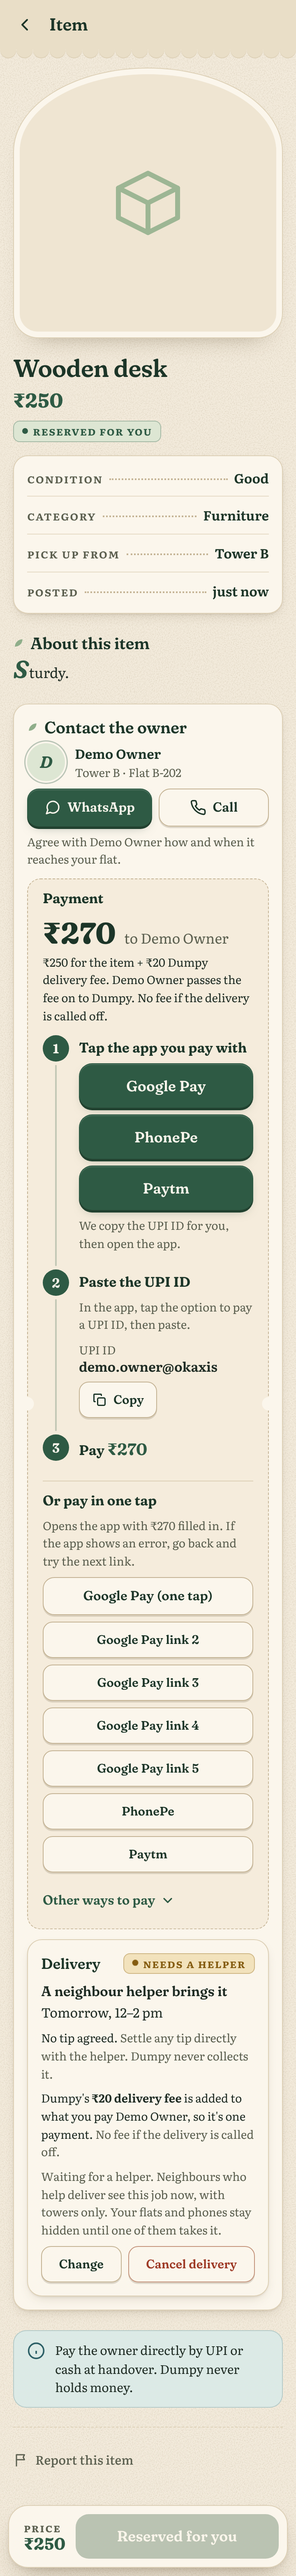
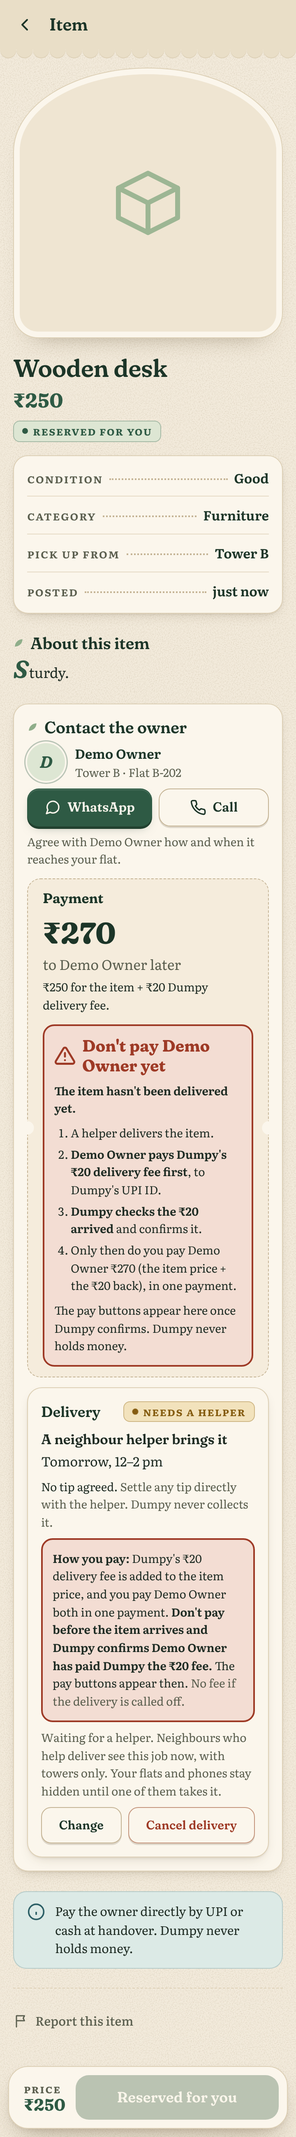
Seller pays Dumpy's delivery fee first, with red warnings for buyer and seller
For a helper delivery of a paid item, the seller must pay Dumpy's fee and a
platform admin must confirm it before the buyer can pay the seller (price +
fee, one payment). Until then get_contact hides the seller's UPI ID and
set_paid refuses to mark the item paid (seller_fee_pending). Big red
warnings explain the order at booking, before and after delivery.

Claude-Session: https://claude.ai/code/session_01RPdTXMb1PRF175KPwEZfhq

diff --git a/tests/browser/fees.js b/tests/browser/fees.js
@@ -224,39 +224,54 @@ const q1 = (query) => sql(query).split('\n').filter(Boolean).pop() || '';
   await tp.waitForSelector(`${box} form`);
   await tp.click(`${box} label:has-text("A neighbour helper brings it")`);
   await tp.waitForSelector(`${box} [data-fee-note]:not([hidden])`);
-  check((await tp.textContent(`${box} [data-fee-note]`)).includes("₹20 delivery fee is added to what you pay Demo Owner, so it's one payment"),
-    'Booking a helper for a paid item says the fee is added to the payment to the seller');
+  const note = await tp.textContent(`${box} [data-fee-note]`);
+  check(note.includes("added to the item price, and you pay Demo Owner both in one payment") && note.includes("Don't pay before the item arrives and Dumpy confirms Demo Owner has paid Dumpy the ₹20 fee")
+    && await tp.evaluate(() => document.querySelector('.delivery [data-fee-note]').classList.contains('pay-warn')),
+    'Booking a helper for a paid item warns in red: one payment, only after Dumpy confirms the seller paid the fee');
   sql(`select public.arrange_delivery('${DESK}', 'helper', (((now() at time zone 'Asia/Kolkata')::date + 1) + time '12:00') at time zone 'Asia/Kolkata', '')`, TAKER.id);
   await tp.reload(); await settle(tp);
-  await tp.waitForFunction(() => /₹270/.test((document.querySelector('.pay[data-pay] .pay__sum') || {}).textContent || ''));
-  check((await tp.textContent('.pay[data-pay] [data-pay-breakdown]')).includes('₹250 for the item + ₹20 Dumpy delivery fee. Demo Owner passes the fee on to Dumpy'),
-    'The taker\'s pay box shows one payment: ₹270 to Demo Owner, ₹250 item + ₹20 fee');
-  const deskLink = await tp.getAttribute('.pay[data-pay] [data-pay-link]', 'href');
-  check(deskLink.includes('am=270.00') && deskLink.startsWith('upi://pay?pa=') && !deskLink.includes('Q987654321'),
-    'The payment link pays the seller ₹270\n       ' + deskLink);
-  check((await tp.textContent(`${box} [data-fee-line]`)).includes("added to what you pay Demo Owner"), 'The delivery plan says the same');
-  await noSideScroll(tp, 'one payment'); await smallTargets(tp, 'one payment');
+  await tp.waitForSelector('.pay[data-pay] [data-pay-warn]');
+  const lockT = await tp.textContent('.pay[data-pay]');
+  check(lockT.includes("Don't pay Demo Owner yet") && lockT.includes('₹270') && lockT.includes('Demo Owner pays Dumpy\'s ₹20 delivery fee first')
+    && (await tp.locator('.pay[data-pay] [data-pay-link], .pay[data-pay] [data-pay-app]').count()) === 0 && !(await tp.content()).includes('demo.owner@okaxis'),
+    'Before delivery the buyer sees a red "Don\'t pay yet" with the order of payments, no pay buttons and no seller UPI ID');
+  check((await tp.textContent(`${box} [data-fee-line]`)).includes("Don't pay before the item arrives"), 'The delivery plan repeats the warning');
+  await noSideScroll(tp, 'one payment locked'); await smallTargets(tp, 'one payment locked');
   await shot(tp, 'item-one-payment-light');
   const op = await personPage(OWNER);
   await op.goto(SITE + '/pages/item.html?id=' + DESK); await settle(op);
-  await op.waitForFunction(() => /₹270/.test((document.querySelector('[data-pay-status]') || {}).textContent || ''));
-  check((await op.textContent('[data-pay-status]')).includes('pays you ₹270 by UPI or cash (₹250 for the item + ₹20 Dumpy delivery fee, which you pass on to Dumpy'),
-    'The seller is told they get ₹270 and pass ₹20 on');
+  await op.waitForSelector('.pay[data-pay] [data-pay-warn]');
+  check((await op.textContent('.pay[data-pay]')).includes("You can't be paid yet") && await op.isDisabled('[data-pay-toggle]'),
+    'The seller sees a red "You can\'t be paid yet", and Mark as paid is locked');
+  check((await op.textContent(`${box} [data-fee-line]`)).includes("You can't be paid until Dumpy confirms it"), 'The seller\'s delivery plan explains it too');
   const deskDid = q1(`select id from public.deliveries where listing_id = '${DESK}' and status = 'open'`);
   sql(`select public.claim_delivery('${deskDid}')`, HELPER.id);
   sql(`select public.mark_delivered('${deskDid}')`, HELPER.id);
   await op.reload(); await settle(op);
   await op.waitForSelector(`${box} [data-fee] [data-dact="feepaid"]`);
-  check((await op.textContent(`${box} [data-fee]`)).includes('Demo Taker pays you ₹20 for Dumpy\'s delivery fee with the item price. Please pass it on to Dumpy'),
-    'After delivery the seller is asked to pass the fee on, with I\'ve paid');
+  check((await op.textContent(`${box} [data-fee]`)).includes("Pay Dumpy first") && (await op.textContent(`${box} [data-fee]`)).includes("Demo Taker can't pay you until you pay Dumpy's ₹20 delivery fee and Dumpy confirms it"),
+    'After delivery the seller gets a red "Pay Dumpy first", with the pay steps and I\'ve paid');
   await shot(op, 'item-seller-passes-fee-light');
   await tp.reload(); await settle(tp);
-  await tp.waitForSelector(`${box} [data-fee]`);
-  check((await tp.textContent(`${box} [data-fee]`)).includes('Included in your payment to Demo Owner') && (await tp.locator(`${box} [data-fee] [data-dact="feepaid"]`).count()) === 0,
-    'The taker has nothing extra to pay Dumpy');
+  await tp.waitForSelector('.pay[data-pay] [data-pay-warn]');
+  check((await tp.textContent('.pay[data-pay]')).includes("Waiting for Demo Owner to pay Dumpy's ₹20 delivery fee") && (await tp.textContent(`${box} [data-fee]`)).includes('Included in your payment to Demo Owner'),
+    'After delivery the buyer still waits, and is told why');
   await op.click(`${box} [data-dact="feepaid"]`);
-  await op.waitForFunction(() => /You marked this as paid/.test(document.querySelector('.delivery').textContent));
-  check(q1(`select fee_marked_paid_at is not null from public.deliveries where id = '${deskDid}'`) === 't', 'The seller marks the fee passed on');
+  await op.waitForFunction(() => /Waiting for Dumpy to confirm your ₹20 fee/.test(document.querySelector('.delivery').textContent));
+  check(q1(`select fee_marked_paid_at is not null from public.deliveries where id = '${deskDid}'`) === 't', 'The seller marks the fee paid and waits for Dumpy');
+  await tp.reload(); await settle(tp);
+  await tp.waitForSelector('.pay[data-pay] [data-pay-warn]');
+  check((await tp.textContent('.pay[data-pay]')).includes("says they paid Dumpy's ₹20 fee. Waiting for Dumpy to confirm"), 'Until Dumpy confirms, the buyer still can\'t pay');
+  sql(`select public.platform_settle_delivery_fee('${deskDid}', 'confirm')`, BOSS.id);
+  await tp.reload(); await settle(tp);
+  await tp.waitForSelector('.pay[data-pay] [data-pay-ok]');
+  const deskLink = await tp.getAttribute('.pay[data-pay] [data-pay-link]', 'href');
+  check(deskLink.includes('pa=demo.owner@okaxis') && deskLink.includes('am=270.00') && (await tp.textContent('.pay[data-pay] [data-pay-ok]')).includes('Dumpy confirmed Demo Owner paid the ₹20 delivery fee'),
+    'Once Dumpy confirms, the buyer gets the pay buttons for ₹270 to Demo Owner\n       ' + deskLink);
+  await shot(tp, 'item-one-payment-confirmed-light');
+  await op.reload(); await settle(op);
+  await op.waitForSelector('[data-pay-toggle]:not([disabled])');
+  check(true, 'and the seller can mark the item paid');
   sql(`update public.profiles set upi_id = nullif('${ownerUpi}', '') where user_id = '${OWNER.id}'`);
 
   // Turn the fee back off so later test files start as before.

diff --git a/js/pay.js b/js/pay.js
@@ -237,6 +237,22 @@
   // The pay boxes on the page, so a helper delivery's fee can be added later.
   var CARDS = {};
 
+  var ICON_ALERT = '<svg viewBox="0 0 24 24" fill="none" stroke="currentColor" stroke-width="2.2" stroke-linecap="round" stroke-linejoin="round" aria-hidden="true"><path d="M10.3 3.9 1.8 18a2 2 0 0 0 1.7 3h17a2 2 0 0 0 1.7-3L13.7 3.9a2 2 0 0 0-3.4 0z"/><path d="M12 9v4M12 17h.01"/></svg>';
+  // A big red warning box. body is HTML.
+  function warn(title, body) {
+    return '<div class="pay-warn" role="alert" data-pay-warn><p class="pay-warn__t">' + ICON_ALERT + "<span>" + title + "</span></p>" + body + "</div>";
+  }
+  // The order of payments when the seller collects Dumpy's delivery fee.
+  //   seller  the seller's name, or "You" when the seller is reading
+  //   payer   who pays the seller at the end: "you" or the buyer's name
+  function order(seller, fee, total, payer) {
+    var you = seller === "You";
+    return "<ol class=\"small\"><li>A helper delivers the item.</li><li><strong>" + seller + (you ? " pay" : " pays") + " Dumpy's " + fee +
+      " delivery fee first</strong>, to Dumpy's UPI ID.</li><li><strong>Dumpy checks the " + fee + " arrived</strong> and confirms it.</li>" +
+      "<li>Only then " + (payer === "you" ? "do you pay " + seller : "does " + payer + " pay you") + " " + total +
+      " (the item price + the " + fee + " back), in one payment.</li></ol>";
+  }
+
   function card(l, c, ownerView) {
     if (!isPaid(l) || !matched(l)) return "";
     CARDS[l.id] = { l: l, c: c, ownerView: ownerView };
@@ -247,11 +263,39 @@
     var total = l.price_inr + fee;
     var price = rupees(total);
     var split = fee ? rupees(l.price_inr) + " for the item + " + rupees(fee) + " Dumpy delivery fee" : "";
+    // The seller pays Dumpy's fee first; until Dumpy confirms it, nobody pays
+    // the seller (the database also hides their UPI ID and refuses Mark as paid).
+    var locked = fee > 0 && l.delivery_fee_state !== "confirmed";
+    // Until the delivery box has said whether there is a fee, don't show a
+    // missing UPI ID as "pay in cash": it may be hidden for that reason.
+    var waiting = !ownerView && !l.delivery_fee_known && !(c && c.upi_id) && !!Dumpy.delivery && !l.paid_at;
     var paid = !!l.paid_at;
     var other = c ? c.display_name : (ownerView ? "the taker" : "the owner");
     var hid = "pay-h-" + esc(l.id);
     var head = '<div class="pay" data-pay="' + esc(l.id) + '" role="group" aria-labelledby="' + hid + '">' +
       '<p class="pay__title" id="' + hid + '">Payment · ' + price + "</p>";
+
+    var otherName = esc(other);
+    if (locked && !paid) {
+      var fr = rupees(fee);
+      if (ownerView) {
+        var now = { upcoming: "After the helper delivers, pay Dumpy's " + fr + " delivery fee in the Delivery box below.",
+                    due: "Pay Dumpy's " + fr + " delivery fee now, in the Delivery box below.",
+                    marked: "You said you paid Dumpy's " + fr + " fee. Waiting for Dumpy to confirm it." }[l.delivery_fee_state] || "";
+        return head + warn("You can't be paid yet", '<p class="small"><strong>' + now + "</strong></p>" + order("You", fr, price, otherName) +
+            '<p class="small">Until then ' + otherName + " can't see your UPI ID, and you can't mark this paid.</p>") +
+          '<label class="switch pay__switch"><span class="switch__text"><strong>Mark as paid</strong><br><span class="small muted" data-pay-status>Locked until Dumpy confirms your fee.</span></span>' +
+          '<input type="checkbox" data-pay-toggle disabled aria-describedby="' + hid + '"></label></div>';
+      }
+      var why = { upcoming: "The item hasn't been delivered yet.",
+                  due: "The item has arrived. Waiting for " + otherName + " to pay Dumpy's " + fr + " delivery fee.",
+                  marked: otherName + " says they paid Dumpy's " + fr + " fee. Waiting for Dumpy to confirm it." }[l.delivery_fee_state] || "";
+      return head.replace(">Payment · " + price + "<", ">Payment<") +
+        '<p class="pay__sum"><span class="pay__sum-amount">' + price + '</span><span class="pay__sum-to">to ' + otherName + " later</span></p>" +
+        '<p class="small pay__breakdown">' + esc(split) + ".</p>" +
+        warn("Don't pay " + otherName + " yet", '<p class="small"><strong>' + why + "</strong></p>" + order(otherName, fr, price, "you") +
+          '<p class="small">The pay buttons appear here once Dumpy confirms. Dumpy never holds money.</p>') + "</div>";
+    }
 
     if (ownerView) {
       var myUpi = Dumpy.state && Dumpy.state.profile && Dumpy.state.profile.upi_id;
@@ -269,6 +313,9 @@
     }
 
     var upi = c && c.upi_id && UPI_RE.test(c.upi_id) ? c.upi_id : null;
+    if (!upi && waiting) {
+      return head + '<p class="small muted">Checking how to pay…</p></div>';
+    }
     if (!upi) {
       return head + '<p class="small">' + esc(other) + " has not added a UPI ID. Pay " + price + " in cash when you collect it." +
         (fee ? " That's " + split + "." : "") + "</p></div>";
@@ -277,7 +324,8 @@
     var href = link(upi, c.display_name, total, l.title + (fee ? " + delivery" : ""));
     head = head.replace(">Payment · " + price + "<", ">Payment<");
     return head + steps({ href: href, price: price, payee: c.display_name,
-      breakdown: fee ? esc(split) + ". " + esc(c.display_name) + " passes the fee on to Dumpy. No fee if the delivery is called off." : "" }) + "</div>";
+      breakdown: fee ? esc(split) + '.</p><p class="small pay-ok" data-pay-ok><strong>Dumpy confirmed ' + esc(c.display_name) +
+        " paid the " + rupees(fee) + " delivery fee.</strong> You can pay now: the " + rupees(fee) + " goes back to " + esc(c.display_name) + "." : "" }) + "</div>";
   }
 
   async function copy(text) {
@@ -349,12 +397,18 @@
 
   // Add (or remove, with 0) Dumpy's delivery fee to an item's pay box: the
   // taker then pays the seller both in one payment.
-  function withFee(listingId, fee) {
+  //   fee    the fee the seller collects (0 if none)
+  //   state  the fee's status: upcoming, due, marked, confirmed or waived
+  function withFee(listingId, fee, state) {
     var k = CARDS[listingId];
     var box = document.querySelector('.pay[data-pay="' + listingId + '"]');
     fee = fee > 0 ? fee : 0;
-    if (!k || !box || (k.l.delivery_fee_extra || 0) === fee) return;
+    state = fee ? state || "" : "";
+    if (!k || !box) return;
+    if (k.l.delivery_fee_known && (k.l.delivery_fee_extra || 0) === fee && (k.l.delivery_fee_state || "") === state) return;
+    k.l.delivery_fee_known = true;
     k.l.delivery_fee_extra = fee;
+    k.l.delivery_fee_state = state;
     var open = box.querySelector("[data-pay-qr]");
     box.outerHTML = card(k.l, k.c, k.ownerView);
     if (open && open.open) document.querySelector('.pay[data-pay="' + listingId + '"] [data-pay-qr]').open = true;

diff --git a/js/delivery.js b/js/delivery.js
@@ -166,7 +166,8 @@
     // A paid item delivered by a helper: the fee is added to what the taker
     // pays the seller, in one payment (js/pay.js).
     if (Dumpy.pay && Dumpy.pay.withFee) {
-      Dumpy.pay.withFee(box.dataset.deliveryFor, d && d.fee_via_seller && hasFee(d) && d.fee_status !== "waived" ? d.fee_inr : 0);
+      var viaFee = d && d.fee_via_seller && hasFee(d) && d.fee_status !== "waived" ? d.fee_inr : 0;
+      Dumpy.pay.withFee(box.dataset.deliveryFor, viaFee, viaFee ? d.fee_status : "");
     }
     if (d && (d.status === "open" || d.status === "claimed")) showPlan(box, d);
     else if (d && d.status === "delivered") showDelivered(box, d);
@@ -198,9 +199,13 @@
   function feeLine(fee, role, other, viaSeller) {
     var off = '<span class="muted">No fee if the delivery is called off.</span>';
     if (viaSeller) {
+      var f = rupees(fee);
       return role === "taker"
-        ? "Dumpy's <strong>" + rupees(fee) + " delivery fee</strong> is added to what you pay " + esc(other || "the owner") + ", so it's one payment. " + off
-        : esc(other || "The taker") + " pays you Dumpy's <strong>" + rupees(fee) + " delivery fee</strong> with the item price. Pass it on to Dumpy once the item arrives. " + off;
+        ? "<strong>How you pay:</strong> Dumpy's " + f + " delivery fee is added to the item price, and you pay " + esc(other || "the owner") +
+          " both in one payment. <strong>Don't pay before the item arrives and Dumpy confirms " + esc(other || "the owner") + " has paid Dumpy the " + f +
+          " fee.</strong> The pay buttons appear then. " + off
+        : "<strong>You pay Dumpy first:</strong> right after the helper delivers, you pay Dumpy's " + f + " delivery fee. " +
+          "<strong>You can't be paid until Dumpy confirms it.</strong> Then " + esc(other || "the taker") + " pays you the price + " + f + " in one payment. " + off;
     }
     var who = role === "taker" ? "You pay" : esc(other || "The taker") + " pays";
     return who + " Dumpy a <strong>" + rupees(fee) + " delivery fee</strong> by UPI, once the item arrives. " + off;
@@ -221,9 +226,15 @@
       var said = { due: "not paid yet", marked: "marked as paid", confirmed: "paid", waived: "waived" }[d.fee_status] || "";
       return head + '<p class="small muted">' + esc(other || "The taker") + " pays this to Dumpy" + (said ? " (" + said + ")" : "") + ".</p></div>";
     }
-    if (d.fee_status === "confirmed") return head + '<p class="pay__done">' + ICON_CHECK + "<span>Dumpy got your fee. Thank you!</span></p></div>";
+    if (d.fee_status === "confirmed") return head + '<p class="pay__done">' + ICON_CHECK + "<span>Dumpy got your fee. Thank you!" +
+      (d.fee_via_seller ? " " + esc(other || "The taker") + " can now pay you, including the " + price + " back." : "") + "</span></p></div>";
     if (d.fee_status === "waived") return head + '<p class="pay__done">' + ICON_CHECK + "<span>Nothing to pay: this fee was waived.</span></p></div>";
     if (d.fee_status === "marked") {
+      if (d.fee_via_seller) {
+        return head + '<div class="pay-warn" role="alert"><p class="small"><strong>Waiting for Dumpy to confirm your ' + price + " fee.</strong> " +
+          esc(other || "The taker") + " can pay you once it does.</p></div>" +
+          '<p class="small muted">Reference ' + esc(d.fee_ref) + ".</p></div>";
+      }
       return head + '<p class="pay__done">' + ICON_CHECK + "<span>You marked this as paid. Thanks for keeping Dumpy going!</span></p>" +
         '<p class="small muted">Reference ' + esc(d.fee_ref) + ". Dumpy checks it arrived.</p></div>";
     }
@@ -239,8 +250,10 @@
     var paidBtn = '<button type="button" class="btn btn--outline btn--block" data-dact="feepaid">I\'ve paid</button>';
     return head.replace(">Dumpy delivery fee · " + price + "<", ">Dumpy delivery fee<") +
       (d.fee_via_seller
-        ? '<p class="small">' + esc(d.helper_name || "The helper") + " brought it over. " + esc(other || "The taker") +
-            " pays you " + price + " for Dumpy's delivery fee with the item price. Please pass it on to Dumpy.</p>"
+        ? '<div class="pay-warn" role="alert" data-pay-warn><p class="pay-warn__t">' + ICON_ALERT + "<span>Pay Dumpy first</span></p>" +
+            '<p class="small">' + esc(d.helper_name || "The helper") + " brought it over. <strong>" + esc(other || "The taker") +
+            " can't pay you until you pay Dumpy's " + price + " delivery fee and Dumpy confirms it.</strong> You get the " + price +
+            " back in " + esc(other || "the taker") + "'s payment.</p></div>"
         : '<p class="small">' + esc(d.helper_name || "The helper") + " brought it over. Please pay Dumpy's delivery fee. Any tip goes straight to " +
             esc(d.helper_name || "the helper") + ", as you agreed.</p>") +
       (href ? P.steps({ href: href, price: price, payee: d.fee_payee_name || "Dumpy", note: d.fee_upi_business ? "" : d.fee_ref,
@@ -260,7 +273,8 @@
     if (d.mode === "helper") {
       html += '<p class="small">' + (d.tip_note ? "Tip for the helper: <strong>" + esc(d.tip_note) + "</strong>. " : "No tip agreed. ") +
         '<span class="muted">Settle any tip directly with the helper. Dumpy never collects it.</span></p>' +
-        (hasFee(d) ? '<p class="small" data-fee-line>' + feeLine(d.fee_inr, role, other, d.fee_via_seller) + "</p>" : "");
+        (hasFee(d) ? (d.fee_via_seller ? '<div class="pay-warn" data-fee-line><p class="small">' : '<p class="small" data-fee-line>') +
+          feeLine(d.fee_inr, role, other, d.fee_via_seller) + (d.fee_via_seller ? "</p></div>" : "</p>") : "");
       if (d.status === "claimed") {
         html += '<div class="person"><span class="avatar" aria-hidden="true">' + initial(d.helper_name) + "</span>" +
           '<div><p class="person__name">' + esc(d.helper_name || "A neighbour") + '</p><p class="person__meta">Helper' +
@@ -370,6 +384,7 @@
       // goes through the seller (the same rule as arrange_delivery).
       var viaSeller = keptFee !== null ? !!d.fee_via_seller : +box.dataset.price > 0 && !box.dataset.paid;
       note.innerHTML = "<span>" + feeLine(fee, role, other, viaSeller) + "</span>";
+      note.classList.toggle("pay-warn", viaSeller);
       note.hidden = false;
     });
 

diff --git a/css/style.css b/css/style.css
@@ -2023,3 +2023,18 @@ html:active-view-transition-type(back)::view-transition-old(root) { animation: v
 .pay__links-alt { display: flex; flex-wrap: wrap; gap: var(--space-2); }
 .pay__links-alt .btn { flex: 1 1 140px; }
 .pay__breakdown { margin-top: calc(var(--space-2) * -1); }
+
+/* Big red warning: the seller pays Dumpy's delivery fee first (js/pay.js warn) */
+.pay-warn {
+  border: 2px solid var(--danger);
+  background: var(--danger-soft);
+  color: var(--text);
+  border-radius: 14px;
+  padding: var(--space-3);
+  display: grid;
+  gap: var(--space-2);
+}
+.pay-warn__t { display: flex; gap: var(--space-2); align-items: center; font-family: var(--font-display); font-weight: 700; font-size: 1.25rem; line-height: 1.2; color: var(--danger); }
+.pay-warn__t svg { flex: none; width: 26px; height: 26px; }
+.pay-warn ol { margin: 0; padding-left: 1.25rem; display: grid; gap: 4px; }
+.pay-ok { border-left: 4px solid var(--brand); padding-left: var(--space-2); }

diff --git a/docs/delivery-fee-setup.md b/docs/delivery-fee-setup.md
@@ -12,6 +12,21 @@ Dumpy earns a small flat fee each time a neighbour helper delivers an item.
 - The fee is copied onto each delivery when it is booked, so changing the amount later never changes a delivery that is already booked.
 - Dumpy still holds no money. The fee goes straight from the taker's UPI app to your UPI ID.
 
+## Paid items: one payment, and the seller pays Dumpy first
+
+When a helper delivers an item that has a price (and the item was not already marked paid when the helper was booked):
+
+1. The helper delivers the item.
+2. **The seller pays Dumpy's delivery fee first**, to Dumpy's UPI ID, and taps **I've paid**.
+3. **You check the money arrived** and tap **Confirm received** on Run Dumpy.
+4. Only then does the buyer pay the seller **the item price + the fee** in one UPI payment (for example ₹250 + ₹20 = ₹270), so the seller gets the fee back.
+
+Until you confirm the seller's fee, Dumpy hides the seller's UPI ID from the buyer and the seller can't mark the item paid. Both of them see red warnings that explain this when they book the helper, before delivery and after it. If you tap **Not received**, the buyer is locked out again. If you **Waive** the fee, the buyer just pays the item price.
+
+Free items, and items already paid for, work as before: the taker pays the fee to Dumpy.
+
+To run this, paste `supabase/migrations/20261107090000_one_payment.sql` into the SQL Editor after `20261026120000_business_upi.sql`.
+
 ## Steps
 
 1. **Run the migration.** In the Supabase dashboard (project dumpy-mumbai), open **SQL Editor > New query**. Paste the whole of `supabase/migrations/20261025140000_delivery_fee.sql` and click **Run**. It should say "Success. No rows returned". The fee stays off until you finish step 3, so nothing changes for neighbours yet.
